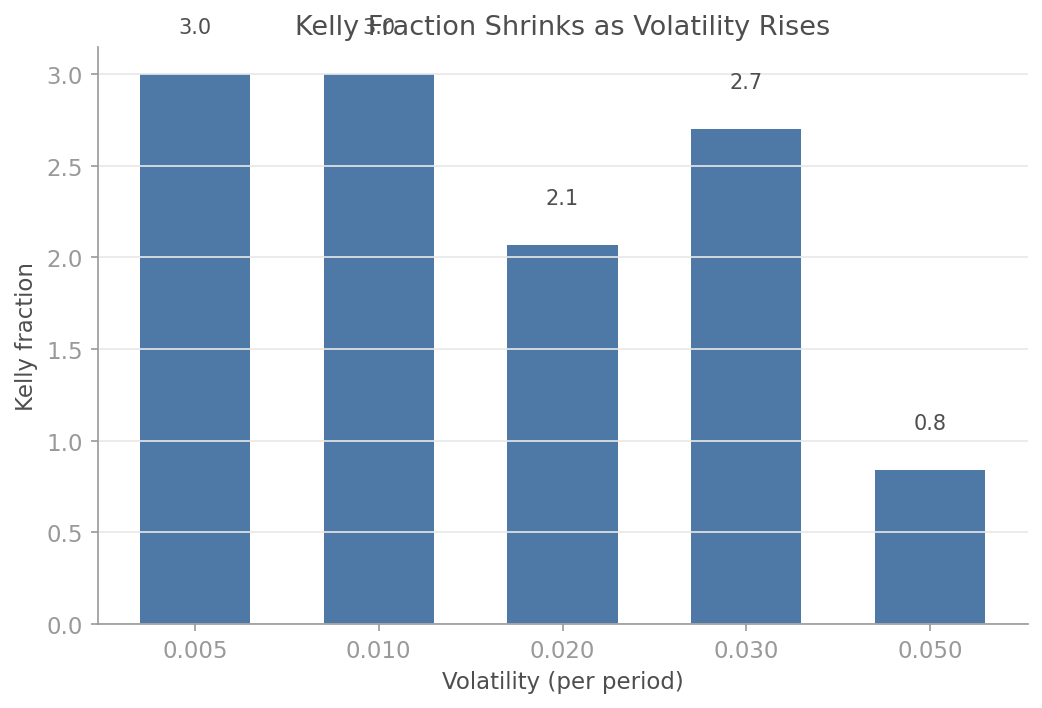
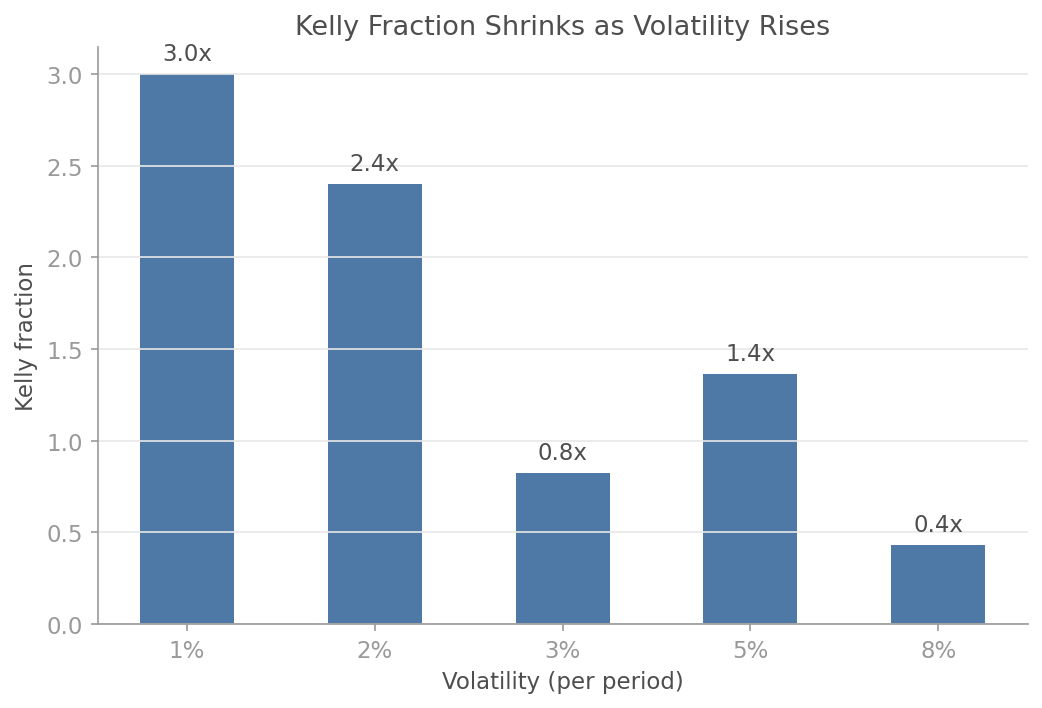
fix: clean up chart rendering — value labels, gridlines, Kelly sensitivity range

diff --git a/examples/scenario_charts.py b/examples/scenario_charts.py
@@ -41,21 +41,26 @@ def chart_portfolio_impact() -> None:
     ]
 
     fig, ax = plt.subplots(figsize=(10, 5))
-    bars = ax.barh(names, impacts, color=colours, height=0.6)
+    y_pos = range(len(names))
+    bars = ax.barh(y_pos, impacts, color=colours, height=0.5, edgecolor="none")
+    ax.set_yticks(y_pos)
+    ax.set_yticklabels(names)
 
-    # Direct labels
-    for bar, imp in zip(bars, impacts):  # noqa: B905
+    # Direct labels (always outside bar end for readability)
+    for i, (_bar, imp) in enumerate(zip(bars, impacts)):  # noqa: B905
         ax.text(
-            imp - 0.01, bar.get_y() + bar.get_height() / 2,
-            f"{imp:.1%}", ha="right", va="center",
-            color="white", fontsize=10, fontweight="bold",
+            imp + 0.004, i,
+            f"{imp:.1%}", ha="left", va="center",
+            color=FEW_PALETTE["grey_dark"], fontsize=10, fontweight="bold",
         )
 
     ax.set_title("Portfolio Impact by Crisis Scenario")
     ax.set_xlabel("Portfolio impact")
     ax.axvline(0, color="#999999", linewidth=0.8)
+    ax.set_xlim(min(impacts) * 1.15, 0.02)
+    ax.yaxis.grid(False)
 
-    fig.savefig(DOCS_IMAGES / "scenario_portfolio_impact.png")
+    fig.savefig(DOCS_IMAGES / "scenario_portfolio_impact.png", bbox_inches="tight")
     plt.close(fig)
     print("Saved scenario_portfolio_impact.png")
 
@@ -111,13 +116,21 @@ def chart_shock_propagation() -> None:
     # Draw asset circles
     for name, info in assets.items():
         colour = FEW_PALETTE["negative"] if name == "BTC" else FEW_PALETTE["primary"]
-        size = 2000 if name == "BTC" else 1400
+        label = "BNDS" if name == "BONDS_10Y" else name
+        size = 2000 if name == "BTC" else 1600
         ax.scatter(info["x"], info["y"], s=size, c=colour, zorder=5, edgecolors="white", linewidth=2)
         ax.text(
-            info["x"], info["y"], name,
-            ha="center", va="center", fontsize=10,
+            info["x"], info["y"], label,
+            ha="center", va="center", fontsize=9,
             fontweight="bold", color="white", zorder=6,
         )
+        # Full name label below for bonds
+        if name == "BONDS_10Y":
+            ax.text(
+                info["x"], info["y"] - 0.07, "BONDS_10Y",
+                ha="center", va="top", fontsize=7,
+                color=FEW_PALETTE["grey_mid"],
+            )
 
     fig.savefig(DOCS_IMAGES / "shock_propagation_network.png")
     plt.close(fig)

diff --git a/examples/ergodicity_charts.py b/examples/ergodicity_charts.py
@@ -127,7 +127,7 @@ def chart_leverage_growth() -> None:
 def chart_kelly_sensitivity() -> None:
     """Chart 3: Kelly fraction sensitivity to volatility."""
     rng = np.random.default_rng(42)
-    volatilities = [0.005, 0.01, 0.02, 0.03, 0.05]
+    volatilities = [0.01, 0.02, 0.03, 0.05, 0.08]
     kelly_fracs = []
 
     for vol in volatilities:
@@ -135,17 +135,18 @@ def chart_kelly_sensitivity() -> None:
         kf = kelly_fraction(rets)
         kelly_fracs.append(kf)
 
-    labels = [f"{v:.3f}" for v in volatilities]
+    labels = [f"{v:.0%}" for v in volatilities]
 
     fig, ax = plt.subplots(figsize=(8, 5))
-    bars = ax.bar(labels, kelly_fracs, color=FEW_PALETTE["primary"], width=0.6)
+    bars = ax.bar(labels, kelly_fracs, color=FEW_PALETTE["primary"], width=0.5,
+                  edgecolor="none")
 
     # Direct labels
     for bar, kf in zip(bars, kelly_fracs):  # noqa: B905
         ax.text(
-            bar.get_x() + bar.get_width() / 2, bar.get_height() + 0.2,
-            f"{kf:.1f}", ha="center", va="bottom",
-            color=FEW_PALETTE["grey_dark"], fontsize=10,
+            bar.get_x() + bar.get_width() / 2, bar.get_height() + 0.05,
+            f"{kf:.1f}x", ha="center", va="bottom",
+            color=FEW_PALETTE["grey_dark"], fontsize=11,
         )
 
     ax.set_title("Kelly Fraction Shrinks as Volatility Rises")
